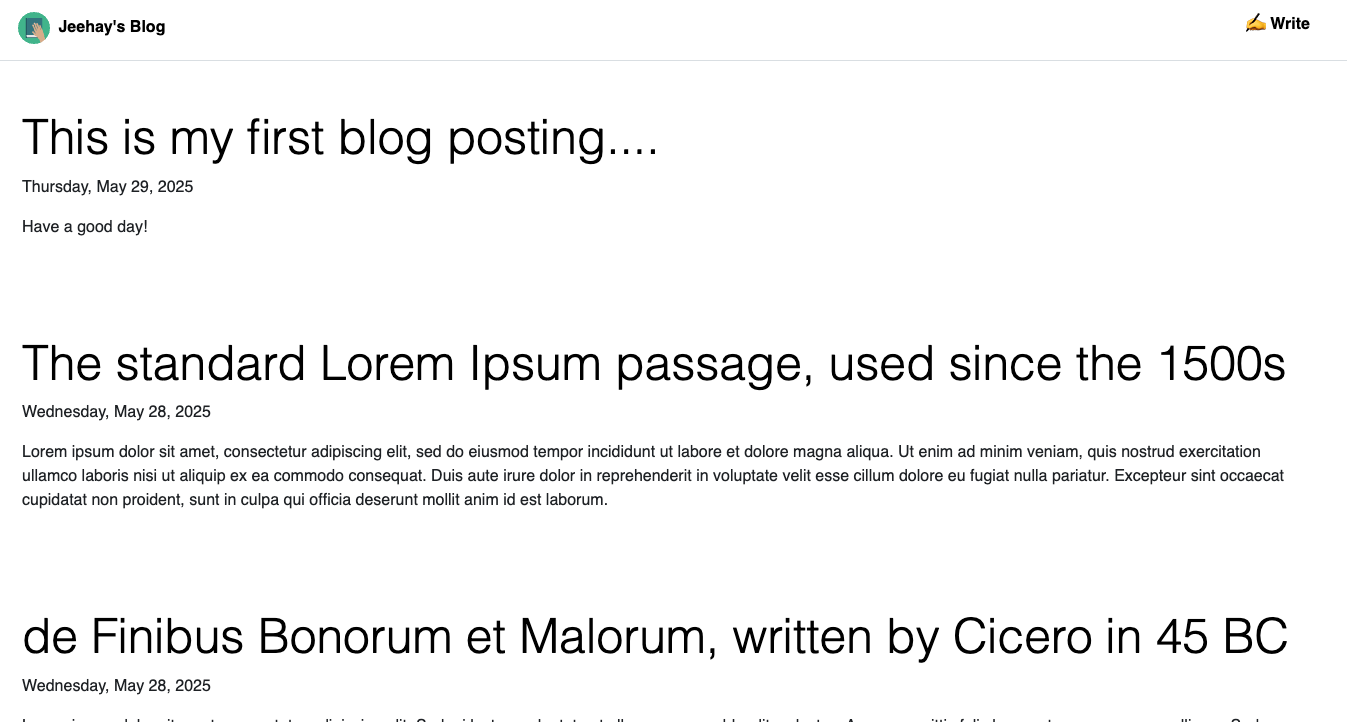
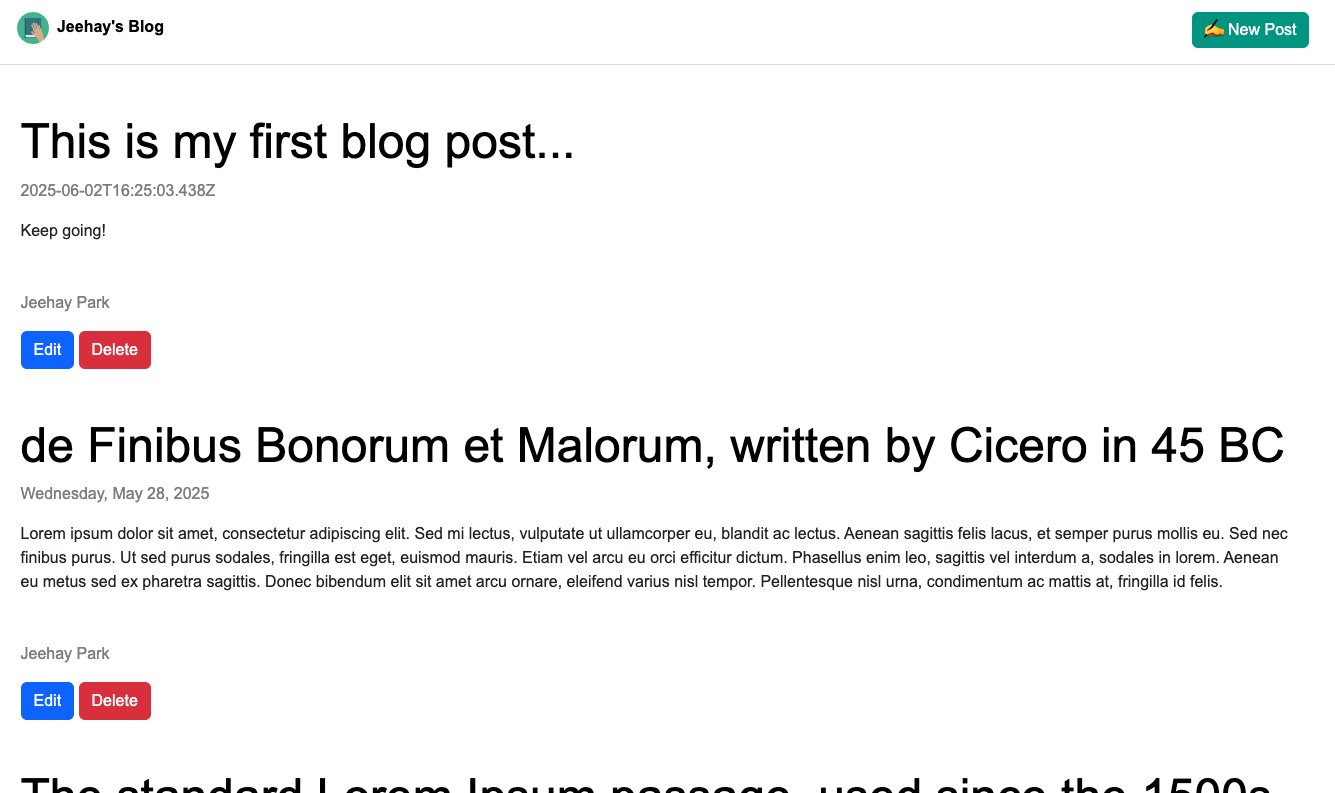
Update README

diff --git a/public/styles/style.css b/public/styles/style.css
@@ -47,8 +47,11 @@ a {
 .btn-write {
   background-color: #009f8b;
   border: #009f8b;
+  color: white;
 }
 
 .btn-write:hover {
   background-color: #007667;
+  border: #007667;
+  color: white;
 }

diff --git a/README.md b/README.md
@@ -21,8 +21,11 @@ Node.js, Express, EJS, Bootstrap을 사용해 구현한 간단한 블로그
 </p>
 
 <p>
+
+<img src="writing.png" width="45%">
 <img src="newPost.png" width="45%">
 </p>
+
 
 <br><br><br>
 
@@ -37,7 +40,7 @@ Node.js, Express, EJS, Bootstrap을 사용해 구현한 간단한 블로그
 
 - 서버 사이드 렌더링
 - 반응형 웹 디자인
-- 간단한 게시글 등록 및 조회
+- 게시글을 등록하고, 조회·수정·삭제할 수 있는 기능
   <br><br><br>
 
 ## 🚀 기술 스택
